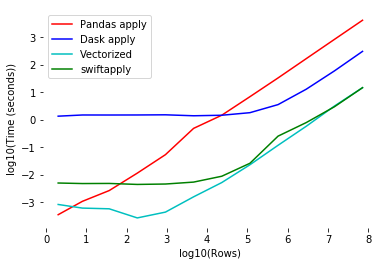
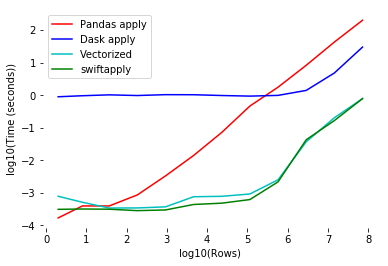
Comparison

diff --git a/README.md b/README.md
@@ -19,8 +19,12 @@ myDF['outCol'] = swiftapply(myDF['inCol'], my_func, positional_arg, keyword_arg=
 ```
 
 ## Vectorizes your function, when possible
-![Alt text](/assets/vectorizes_when_possible_realtime.png?raw=true)
+![Alt text](/assets/vectorizes_when_possible_real.png?raw=true)
 ![Alt text](/assets/vectorizes_when_possible_log10.png?raw=true)
+
+## When vectorization is not possible, automatically decides which is faster: to use dask multiprocessing or a simple pandas apply
+![Alt text](/assets/multiprocessing_v_single_real.png?raw=true)
+![Alt text](/assets/multiprocessing_v_single_log10.png?raw=true)
 
 ## Notes
 1. The function is documented in the .py file. In Jupyter Notebooks, you can see the docs by pressing Shift+Tab(x3). Also, check out the complete documentation [here](docs/documentation.md) along with the [changelog](docs/changelog.md).
